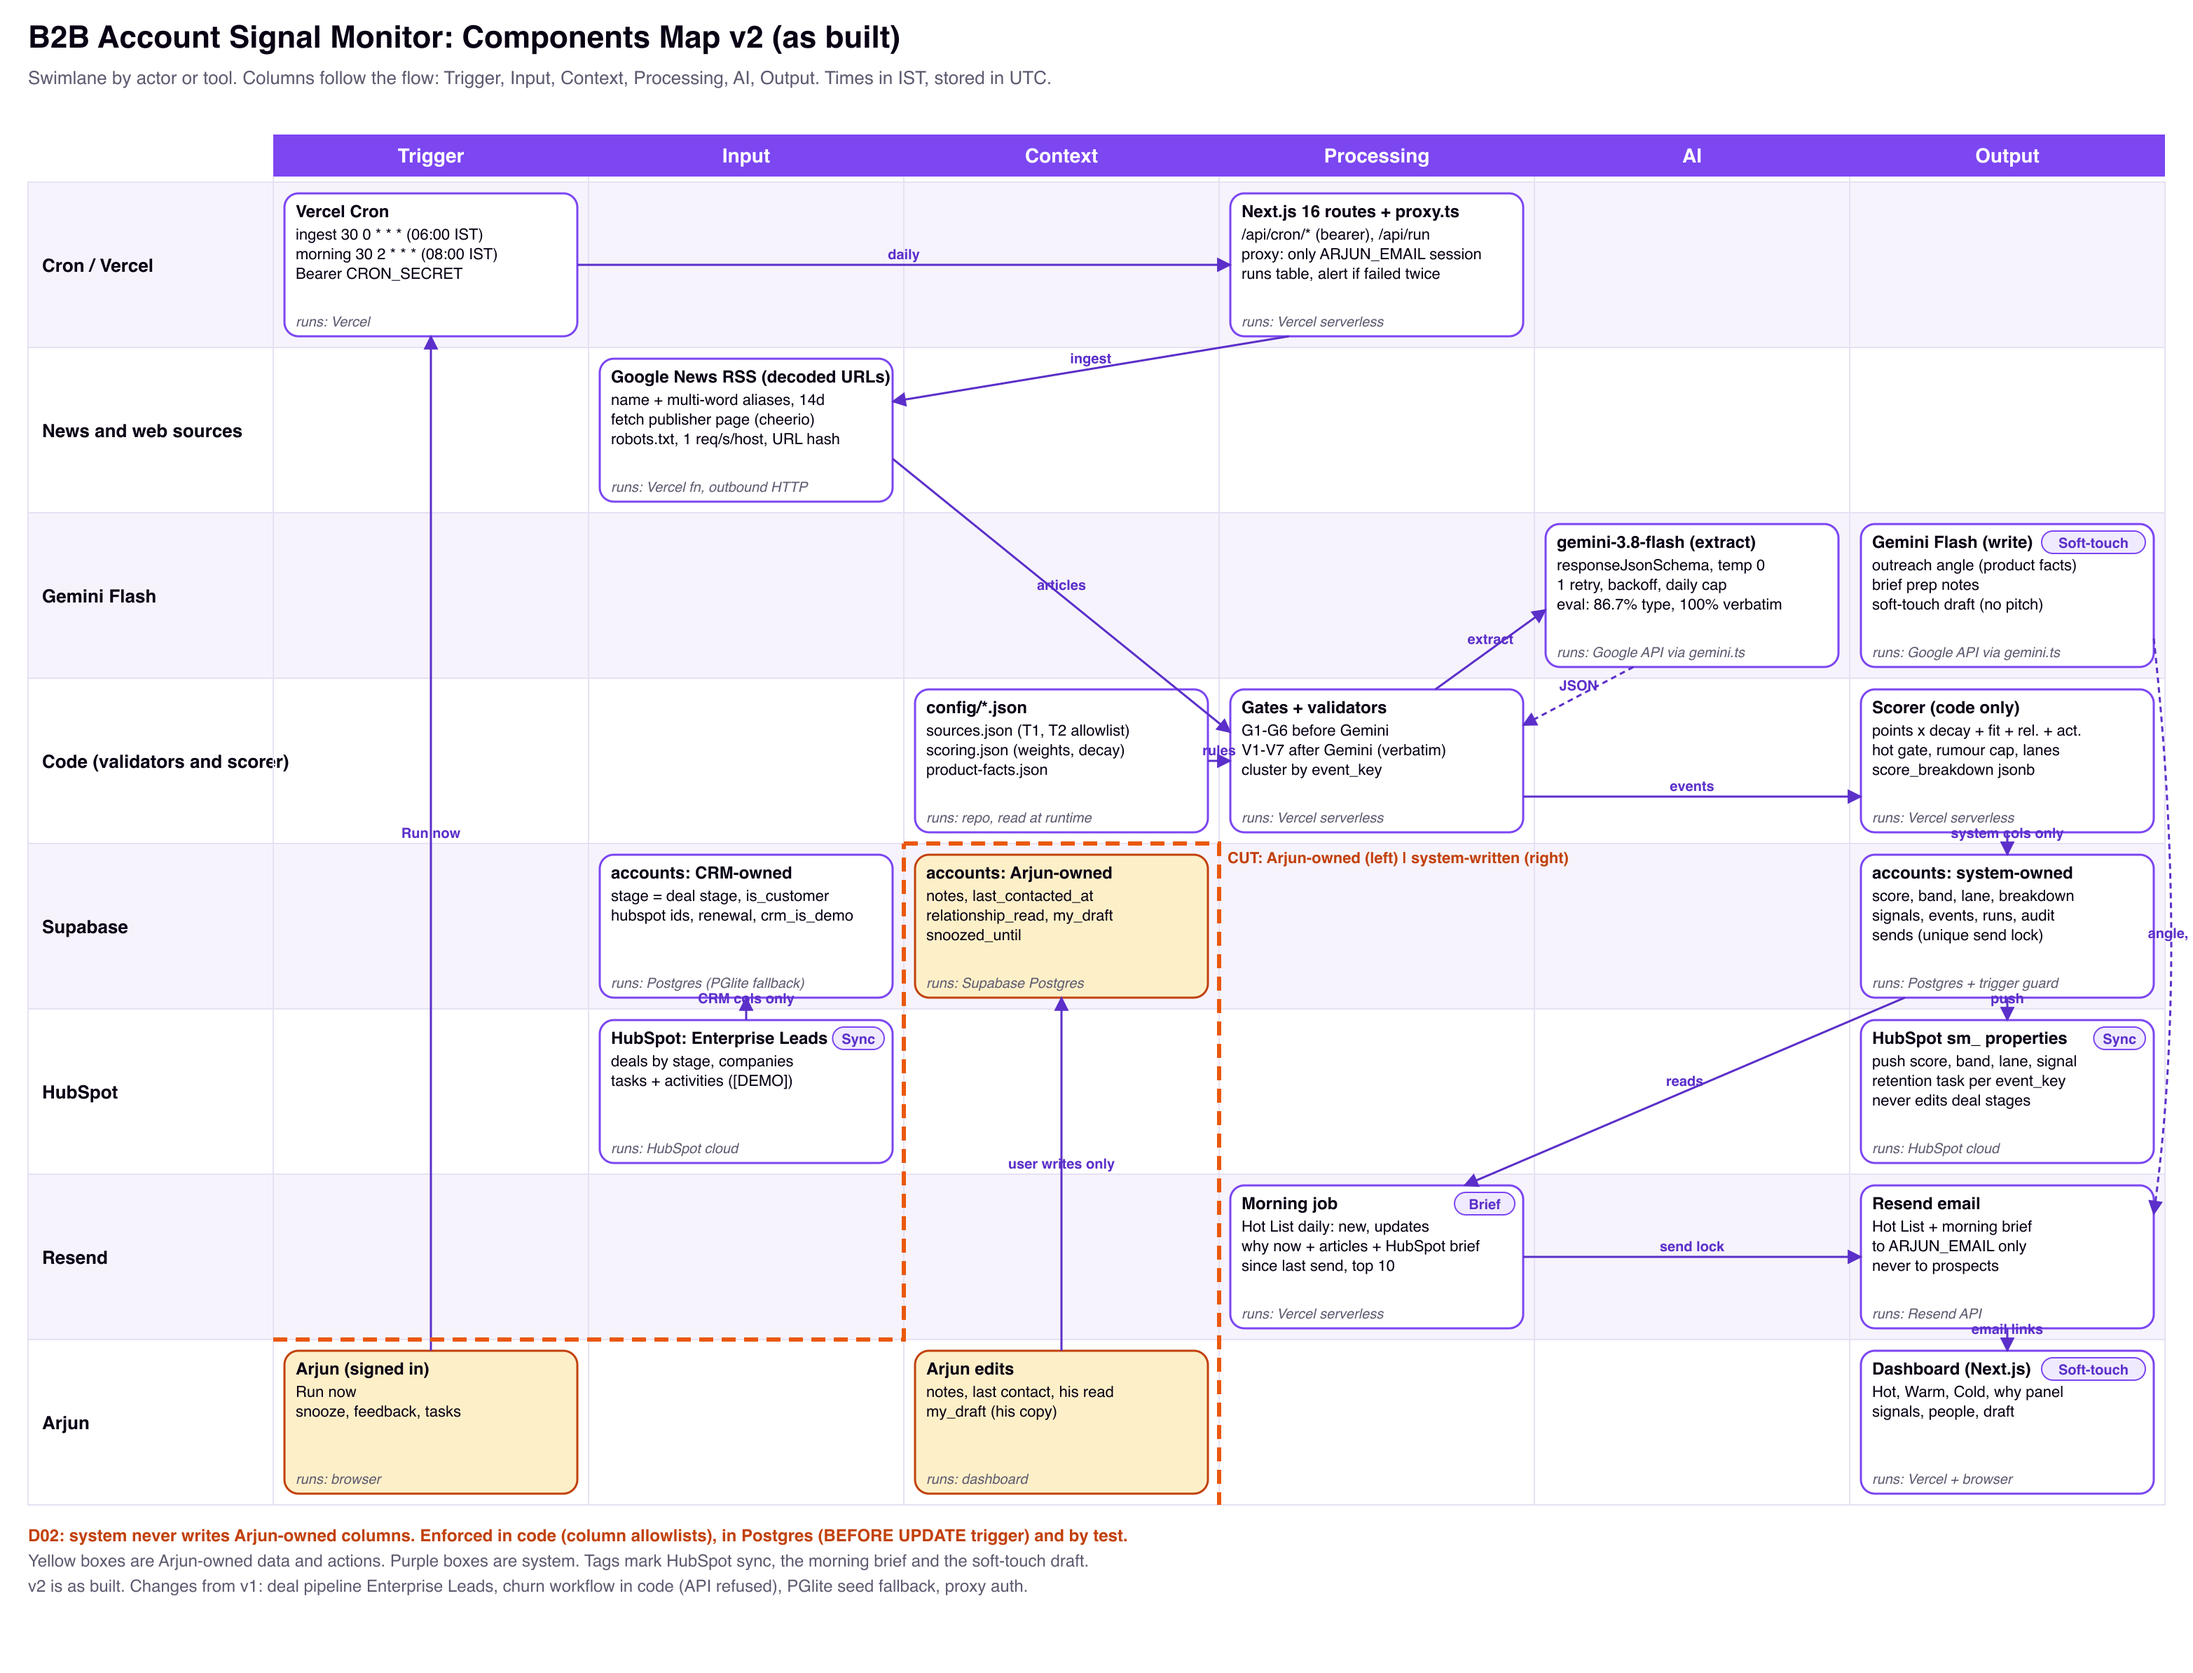
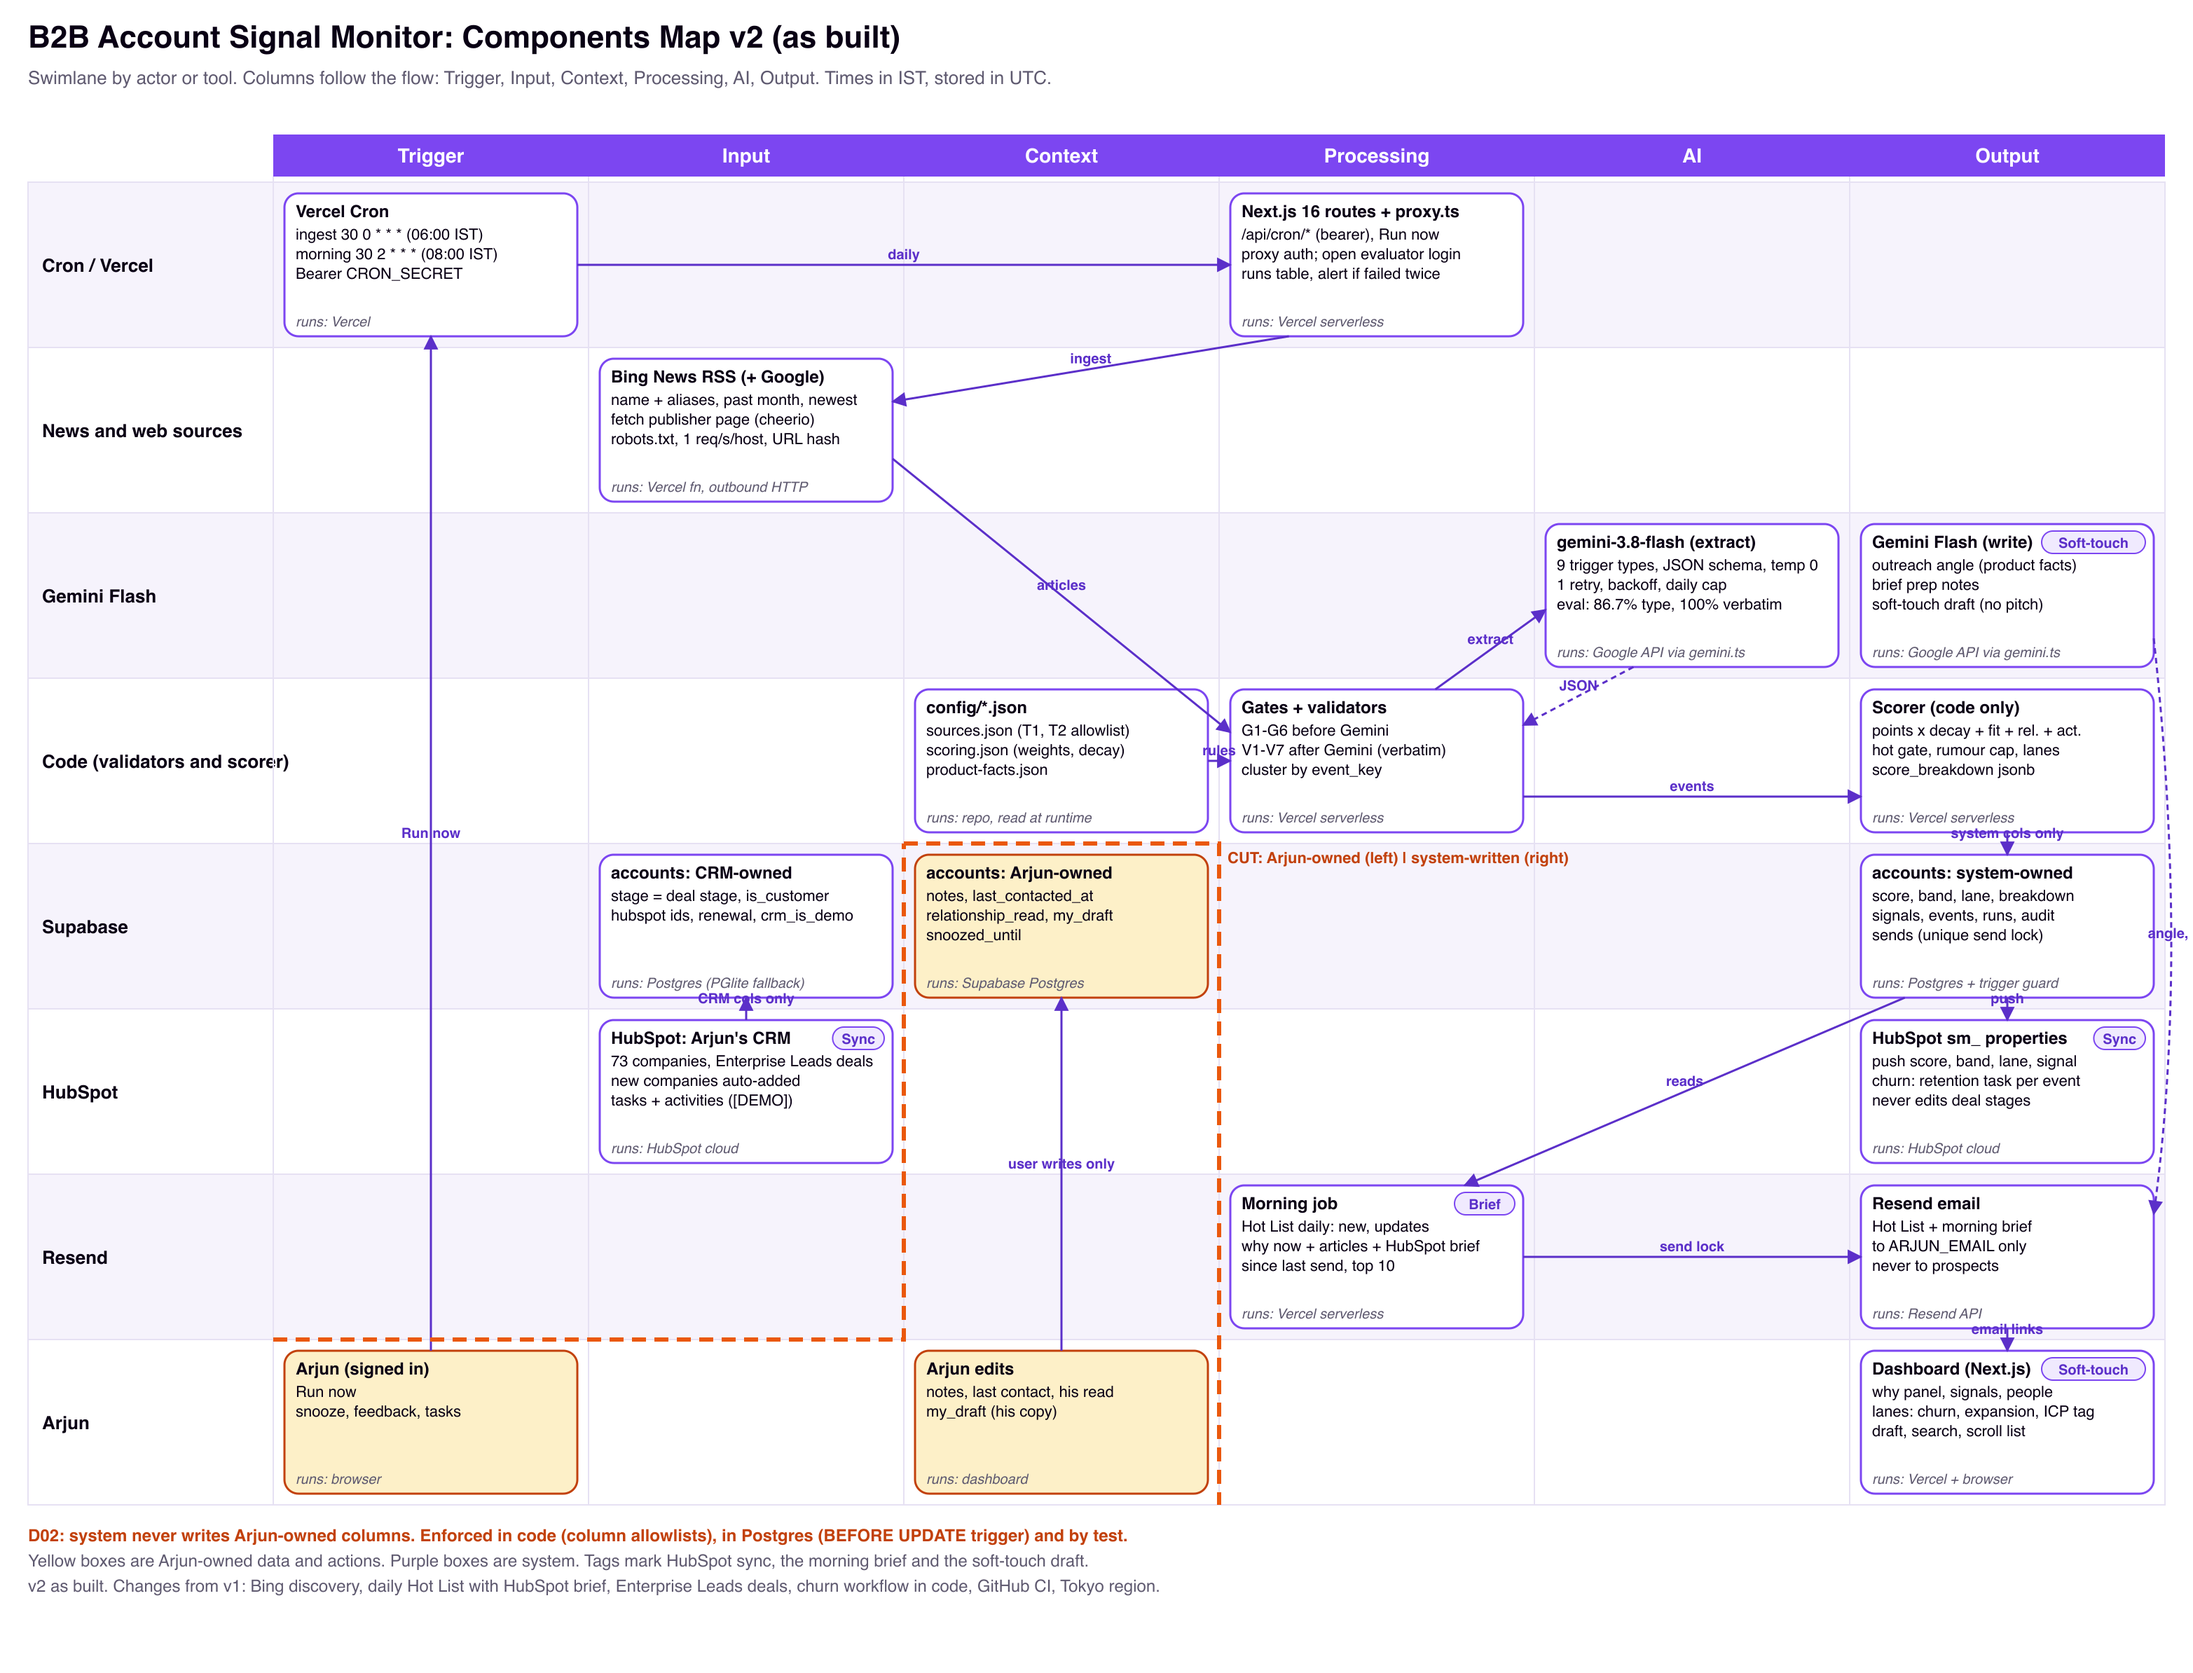
Open-access login without badge, Above ICP size flag, Mesa customer via HubSpot, components map v2 refresh

diff --git a/src/app/login/page.tsx b/src/app/login/page.tsx
@@ -16,13 +16,13 @@ export default async function Login() {
         <div className="flex items-center justify-between gap-3 mb-5">
           <div className="flex items-center gap-3">
             <span className="w-10 h-10 rounded-[10px] bg-primary text-on-primary font-display font-bold text-xl inline-flex items-center justify-center" aria-hidden="true">S</span>
-            <h1 className="font-display font-bold text-lg leading-tight">{company} · Signal Monitor{test && <span className="ml-2 align-middle text-[11px] font-bold uppercase tracking-wide bg-demo-bg text-demo-text rounded-[6px] px-1.5 py-0.5">Test build</span>}</h1>
+            <h1 className="font-display font-bold text-lg leading-tight">{company} · Signal Monitor</h1>
           </div>
         </div>
         {test && (
-          <div role="note" className="bg-demo-bg text-demo-text rounded-[10px] px-3 py-2 mb-4 text-sm">
-            <b>Test build.</b> Any email and any passcode will sign you in as the demo user ({process.env.USER_NAME || "Arjun"}). CRM data is demo data; signals and company facts are real and cited.
-          </div>
+          <p role="note" className="text-sm text-muted mb-4">
+            Open access for evaluation: no passcode needed. You will be signed in as {process.env.USER_NAME || "Arjun"}.
+          </p>
         )}
         <LoginForm testMode={test} demoEmail={process.env.ARJUN_EMAIL ?? ""} />
         <div className="mt-4 flex justify-center"><ThemeToggle /></div>

diff --git a/src/app/login/LoginForm.tsx b/src/app/login/LoginForm.tsx
@@ -31,10 +31,10 @@ export default function LoginForm({ testMode, demoEmail }: { testMode: boolean; 
         <input type="email" autoComplete="username" required value={email} onChange={(e) => setEmail(e.target.value)}
           className="mt-1 w-full min-h-[44px] px-3 rounded-[8px] border border-border bg-surface text-text font-normal" />
       </label>
-      <label className="block text-sm font-semibold">Passcode
-        <input type="password" autoComplete="current-password" required={!testMode} placeholder={testMode ? "Any passcode works in the test build" : undefined} value={password} onChange={(e) => setPassword(e.target.value)}
+      {!testMode && <label className="block text-sm font-semibold">Passcode
+        <input type="password" autoComplete="current-password" required={!testMode} value={password} onChange={(e) => setPassword(e.target.value)}
           className="mt-1 w-full min-h-[44px] px-3 rounded-[8px] border border-border bg-surface text-text font-normal" />
-      </label>
+      </label>}
       {error && <p role="alert" className="text-sm text-hot">{error}</p>}
       <button type="submit" className="btn btn-primary w-full" disabled={busy}>{busy ? "Signing in" : "Sign in"}</button>
     </form>

diff --git a/src/components/Header.tsx b/src/components/Header.tsx
@@ -2,7 +2,6 @@ import Link from "next/link";
 import ThemeToggle from "./ThemeToggle";
 import UserMenu from "./UserMenu";
 import { fmtIstTime } from "@/lib/time";
-import { testMode } from "@/lib/supabase/config";
 
 export default function Header({ company, team, user, email, updatedAt }: { company: string; team: string; user: string; email: string; updatedAt: string | null }) {
   return (
@@ -12,7 +11,6 @@ export default function Header({ company, team, user, email, updatedAt }: { comp
         <span className="min-w-0">
           <span className="block font-display font-bold text-lg leading-tight">
             {company} · Signal Monitor
-            {testMode() && <span className="ml-2 align-middle text-[11px] font-bold uppercase tracking-wide bg-demo-bg text-demo-text rounded-[6px] px-1.5 py-0.5" title="Test build: any passcode signs in as the demo user">Test build</span>}
           </span>
           <span className="block text-sm text-muted truncate">
             {team} · {user}&apos;s view{updatedAt ? ` · updated ${fmtIstTime(updatedAt)} IST` : ""}

diff --git a/src/components/Detail.tsx b/src/components/Detail.tsx
@@ -89,6 +89,7 @@ export default function Detail({ a, data }: { a: DAccount; data: DashboardData }
         <span>Lane: <b>{a.lane ? LANE_LABEL[a.lane] : a.is_customer ? "Healthy, no action needed" : "None"}</b></span>
         {a.flags.includes("gone_quiet") && <Tag>Gone quiet</Tag>}
         {a.flags.includes("no_contact_30d") && <Tag>No contact 30+ days</Tag>}
+        {a.flags.includes("above_icp_size") && <Tag title="Keka's published customers are mostly 50 to 3,000 employees">Above ICP size</Tag>}
         {snoozed && <Tag>Snoozed until {fmtDate(a.snoozed_until)}</Tag>}
         <button type="button" className="btn text-sm ml-auto" disabled={pending}
           onClick={() => run(() => call(`/api/accounts/${a.id}`, "PATCH", { snoozed_until: snoozed ? null : new Date(Date.now() + 7 * 86_400_000).toISOString() }))}>

diff --git a/src/components/Dashboard.tsx b/src/components/Dashboard.tsx
@@ -98,6 +98,7 @@ export default function Dashboard({ data }: { data: DashboardData }) {
                           <span className="font-semibold truncate">{a.name}</span>
                           {a.is_customer && <Tag tone="primary">Customer</Tag>}
                           {a.flags.includes("gone_quiet") && <Tag>Gone quiet</Tag>}
+                          {a.flags.includes("above_icp_size") && <Tag title="Over 5,000 employees: outside Keka's core mid-market ICP">Above ICP size</Tag>}
                         </span>
                         <span className="block text-sm text-muted truncate">{a.top_signal_summary ?? "No verified signal in the window"}</span>
                       </span>

diff --git a/src/lib/scoring.ts b/src/lib/scoring.ts
@@ -290,6 +290,8 @@ export function scoreAccount(
   const lastEventAge = scored.length ? Math.min(...scored.map((e) => e.ageDays)) : Infinity;
   if (lastEventAge > scoring.goneQuietDays) flags.push("gone_quiet");
   if (lastContactGap >= scoring.reEngageDays && lastContactGap !== Infinity) flags.push("no_contact_30d");
+  // Keka's published customers are mostly 50 to 3,000 employees; above the size band is a stretch account.
+  if (account.employee_count != null && account.employee_count > scoring.fit.sizeBandMax) flags.push("above_icp_size");
 
   const nextAt = band === "cold" ? 4.5 : band === "warm" ? 7.5 : null;
   let toNextBand = "Already Hot.";

diff --git a/tests/scoring.test.ts b/tests/scoring.test.ts
@@ -76,6 +76,11 @@ describe("scoring scenarios (section 8)", () => {
     expect(many / one).toBeCloseTo(1.3);
   });
 
+  it("flags accounts above the ICP size band", () => {
+    expect(scoreAccount({ ...ACCOUNT, employee_count: 42000 }, [], [], [], NOW).flags).toContain("above_icp_size");
+    expect(scoreAccount(ACCOUNT, [], [], [], NOW).flags).not.toContain("above_icp_size");
+  });
+
   it("an account with no events and no history is cold, gone quiet", () => {
     const r = scoreAccount(ACCOUNT, [], [], [], NOW);
     expect(r.band).toBe("cold");

diff --git a/docs/DECISIONS.md b/docs/DECISIONS.md
@@ -33,3 +33,5 @@ Each decision is recorded as written in the build brief, with a one-line reason 
 | B08 | The Hot List goes out every morning (supersedes the Monday and Thursday schedule in D06 and D10). Each list has new accounts, updates on accounts already sent (articles found after the previous send) and a still-on-the-list line. Each item includes why now (Gemini, verified fields only), all supporting articles with quotes, and a HubSpot brief. | Arjun asked for a daily list with follow-ups and enough context to act without opening other tools. | Keeping Monday and Thursday and adding a separate update email. |
 | B09 | Brand: colours taken from keka.com (primary #7c46f1, deep purple #5412ae for links, lavender #ABA5FF for dark-mode links, tint #F2F0FA). Body font Nunito Sans as on keka.com; headings stay Sora because Keka uses TT Commons Pro, a licensed font. | The user asked for exact Keka colours; all pairs checked at 5.25:1 or better. | Embedding a licensed font without a licence. |
 | B10 | New trigger type VENDOR_PARTNERSHIP (base 6, half-life 10 days): the company signs a tech, ERP, HR, payroll or workforce services vendor or implementation partner. At a prospect it is outreach; at a customer it is expansion, or churn risk when the vendor is an HR or payroll provider. | The user asked for a partner angle; a new vendor often means systems are being re-chosen. | Treating every partnership as a buying signal. |
+| B11 | Login is open access for evaluation: no passcode field; the server signs in as the demo user. The TEST BUILD badge was removed so the app looks live. | The user asked for a live-looking app that evaluators can enter without a password. | A visible test-mode badge on every page. |
+| B12 | Flag accounts above 5,000 employees as "Above ICP size". Keka's 77 published customer stories are mostly 50 to 3,000 employees and Indian mid-market. | Arjun can see at a glance that a large account is a stretch; scoring already tapers fit above 5,000. | Dropping large accounts, which would hide real triggers. |

diff --git a/docs/PROJECT_CONTEXT.md b/docs/PROJECT_CONTEXT.md
@@ -252,3 +252,10 @@ Re-read only CLAUDE.md, AGENTS.md and this file, then answered:
 - HubSpot is the source of truth for renewal dates: hubspot-demo-deals.mts now fills a missing sm_renewal_date.
 - Seed re-exported from production.
 
+
+### 2026-10-12 15:22 IST, Claude Code (claude-opus-5-5)
+- Login (B11): passcode field removed in open-access mode; TEST BUILD badge removed from the header and login page.
+- ICP (B12): from Keka's 77 customer stories (keka.com sitemap) the ICP is Indian SMB and mid-market, about 50 to 3,000 employees, tech and services plus multi-location manufacturing, retail, D2C and healthcare. Our 73 accounts: 12 with 50 to 1,000 employees, 37 with 1,001 to 5,000, 23 above 5,000, 1 unknown. Added the above_icp_size flag and an 'Above ICP size' tag (list and detail) plus a test. 78 tests pass.
+- Neos Kosmos Technologies (Mesa School of Business): the user stated it is a Keka customer (first-hand; not in Keka's public stories). Created in HubSpot as a customer with a demo Closed Won deal and a note; the sync picked it up automatically as a new account. Headcount left unknown (not cited).
+- Components Map v2 refreshed (Bing, 9 trigger types, open login, daily Hot List with HubSpot brief, 73 HubSpot companies, churn task, CI).
+
